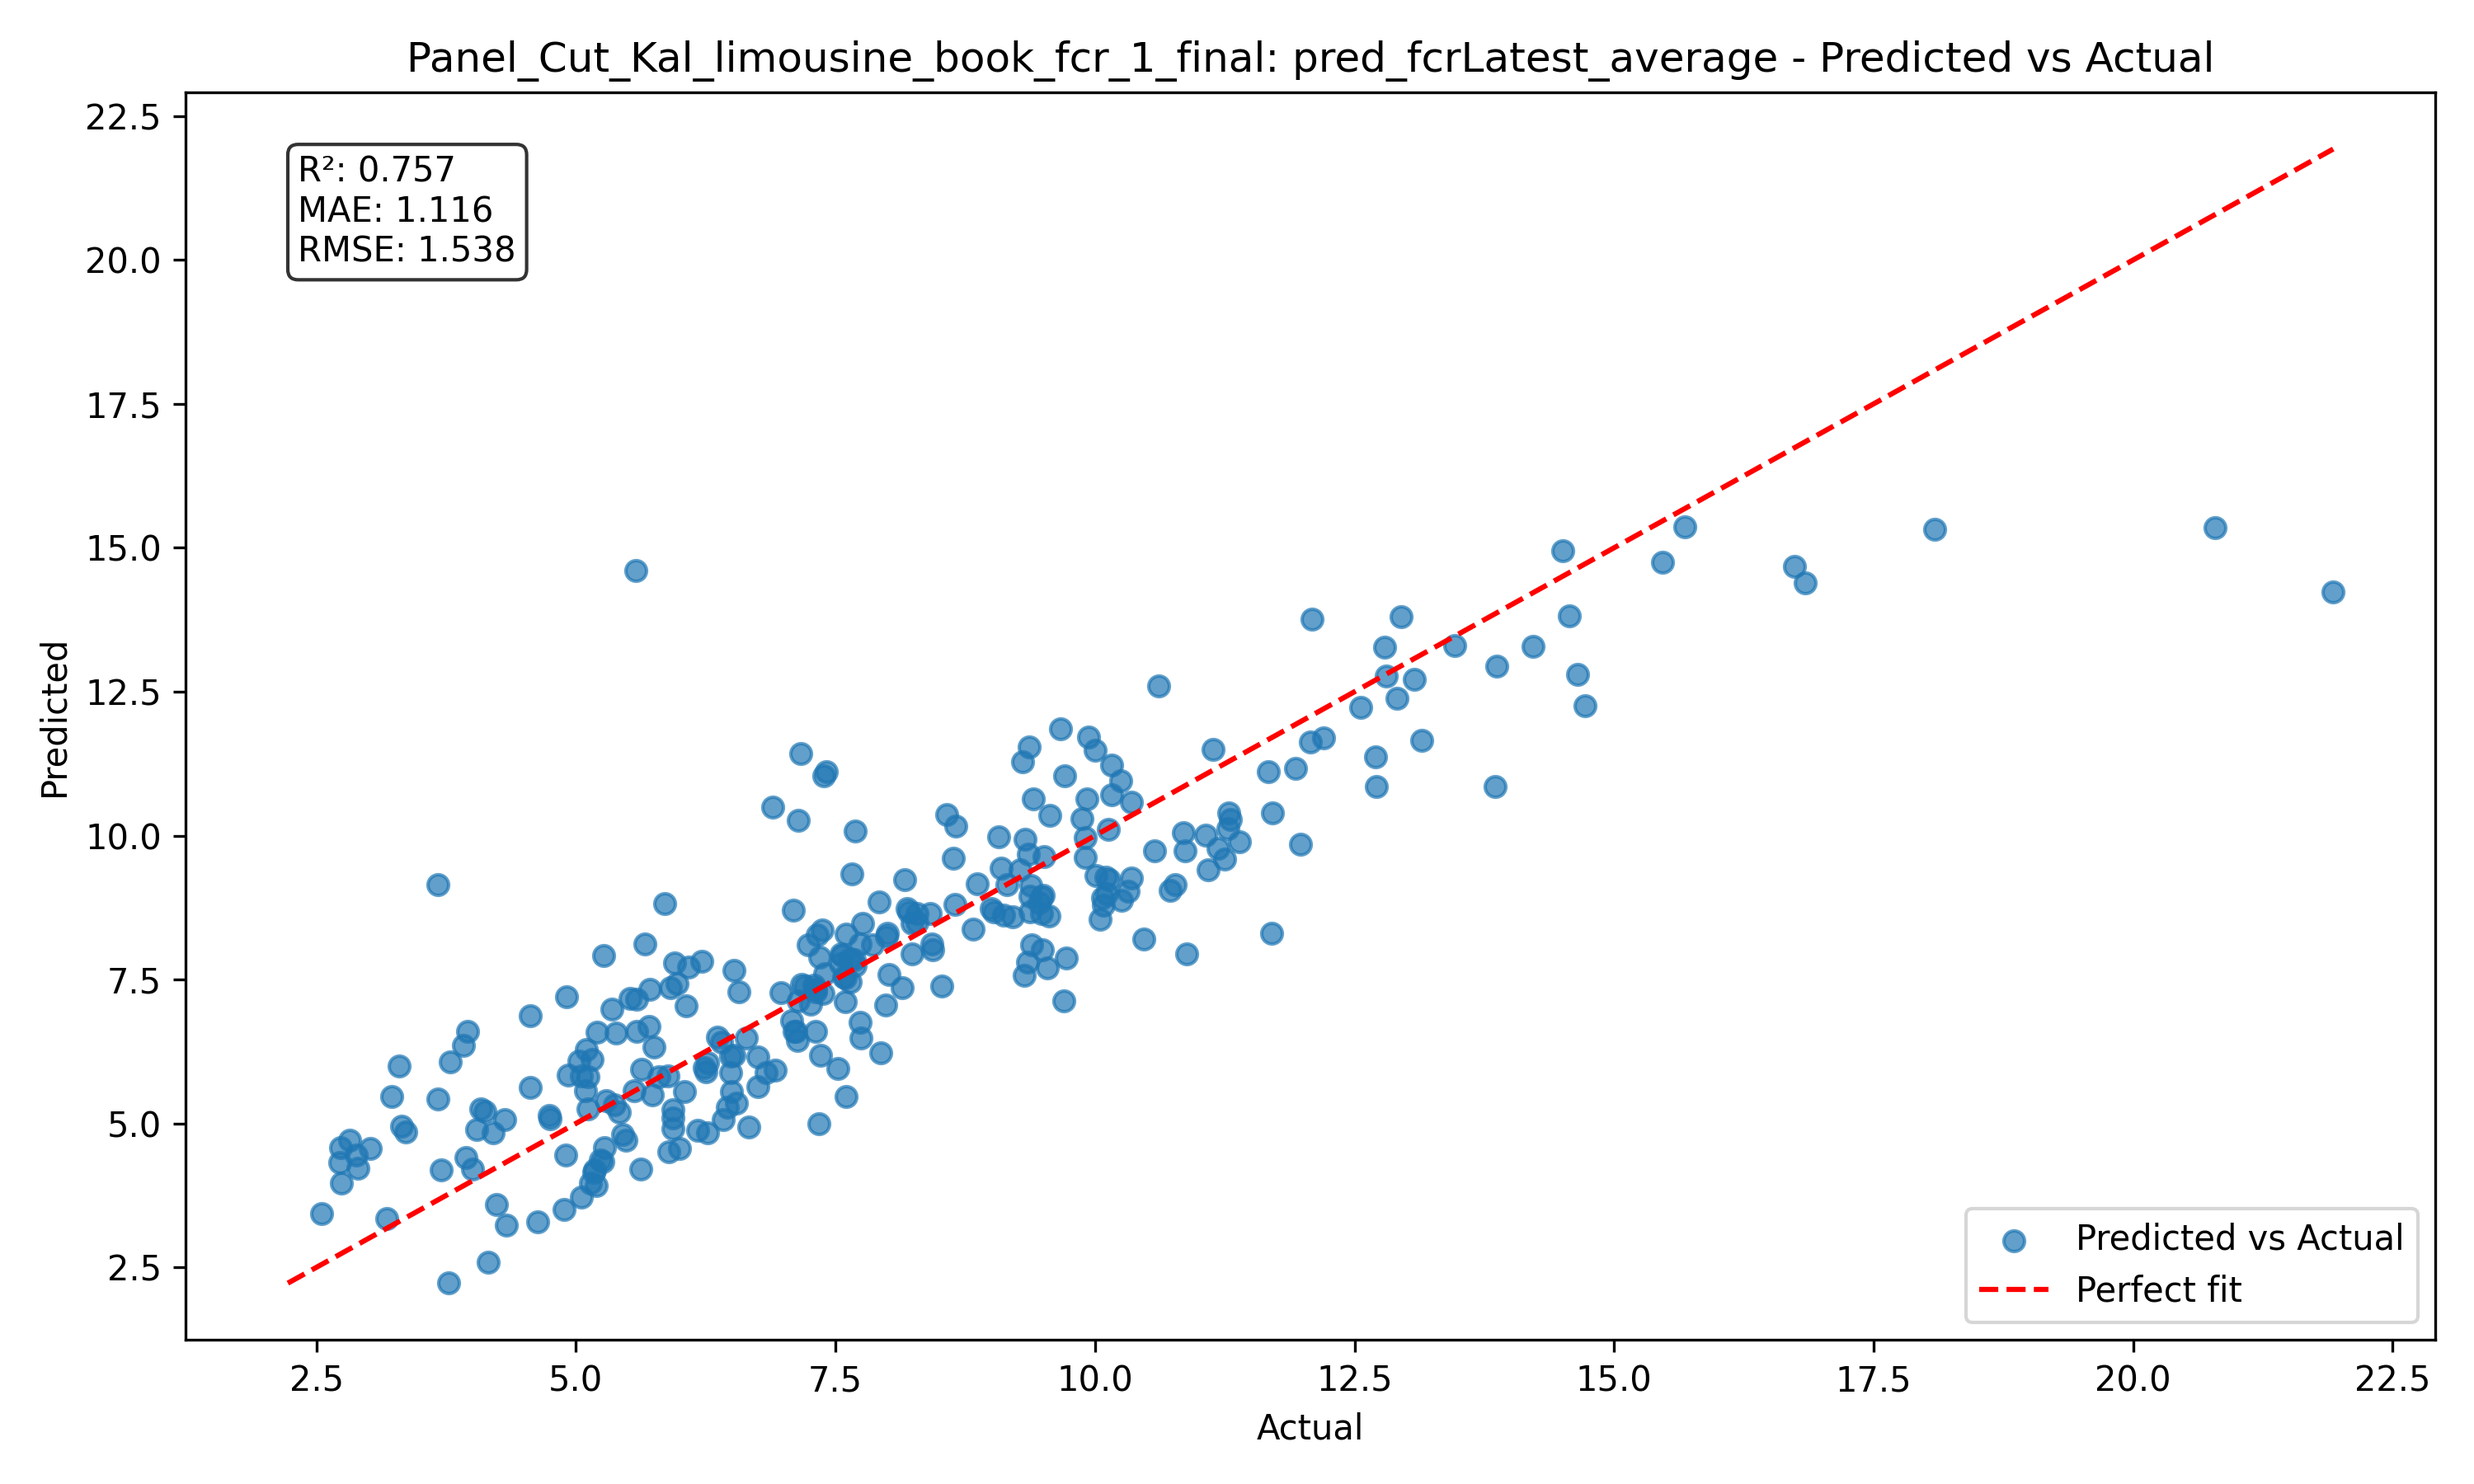
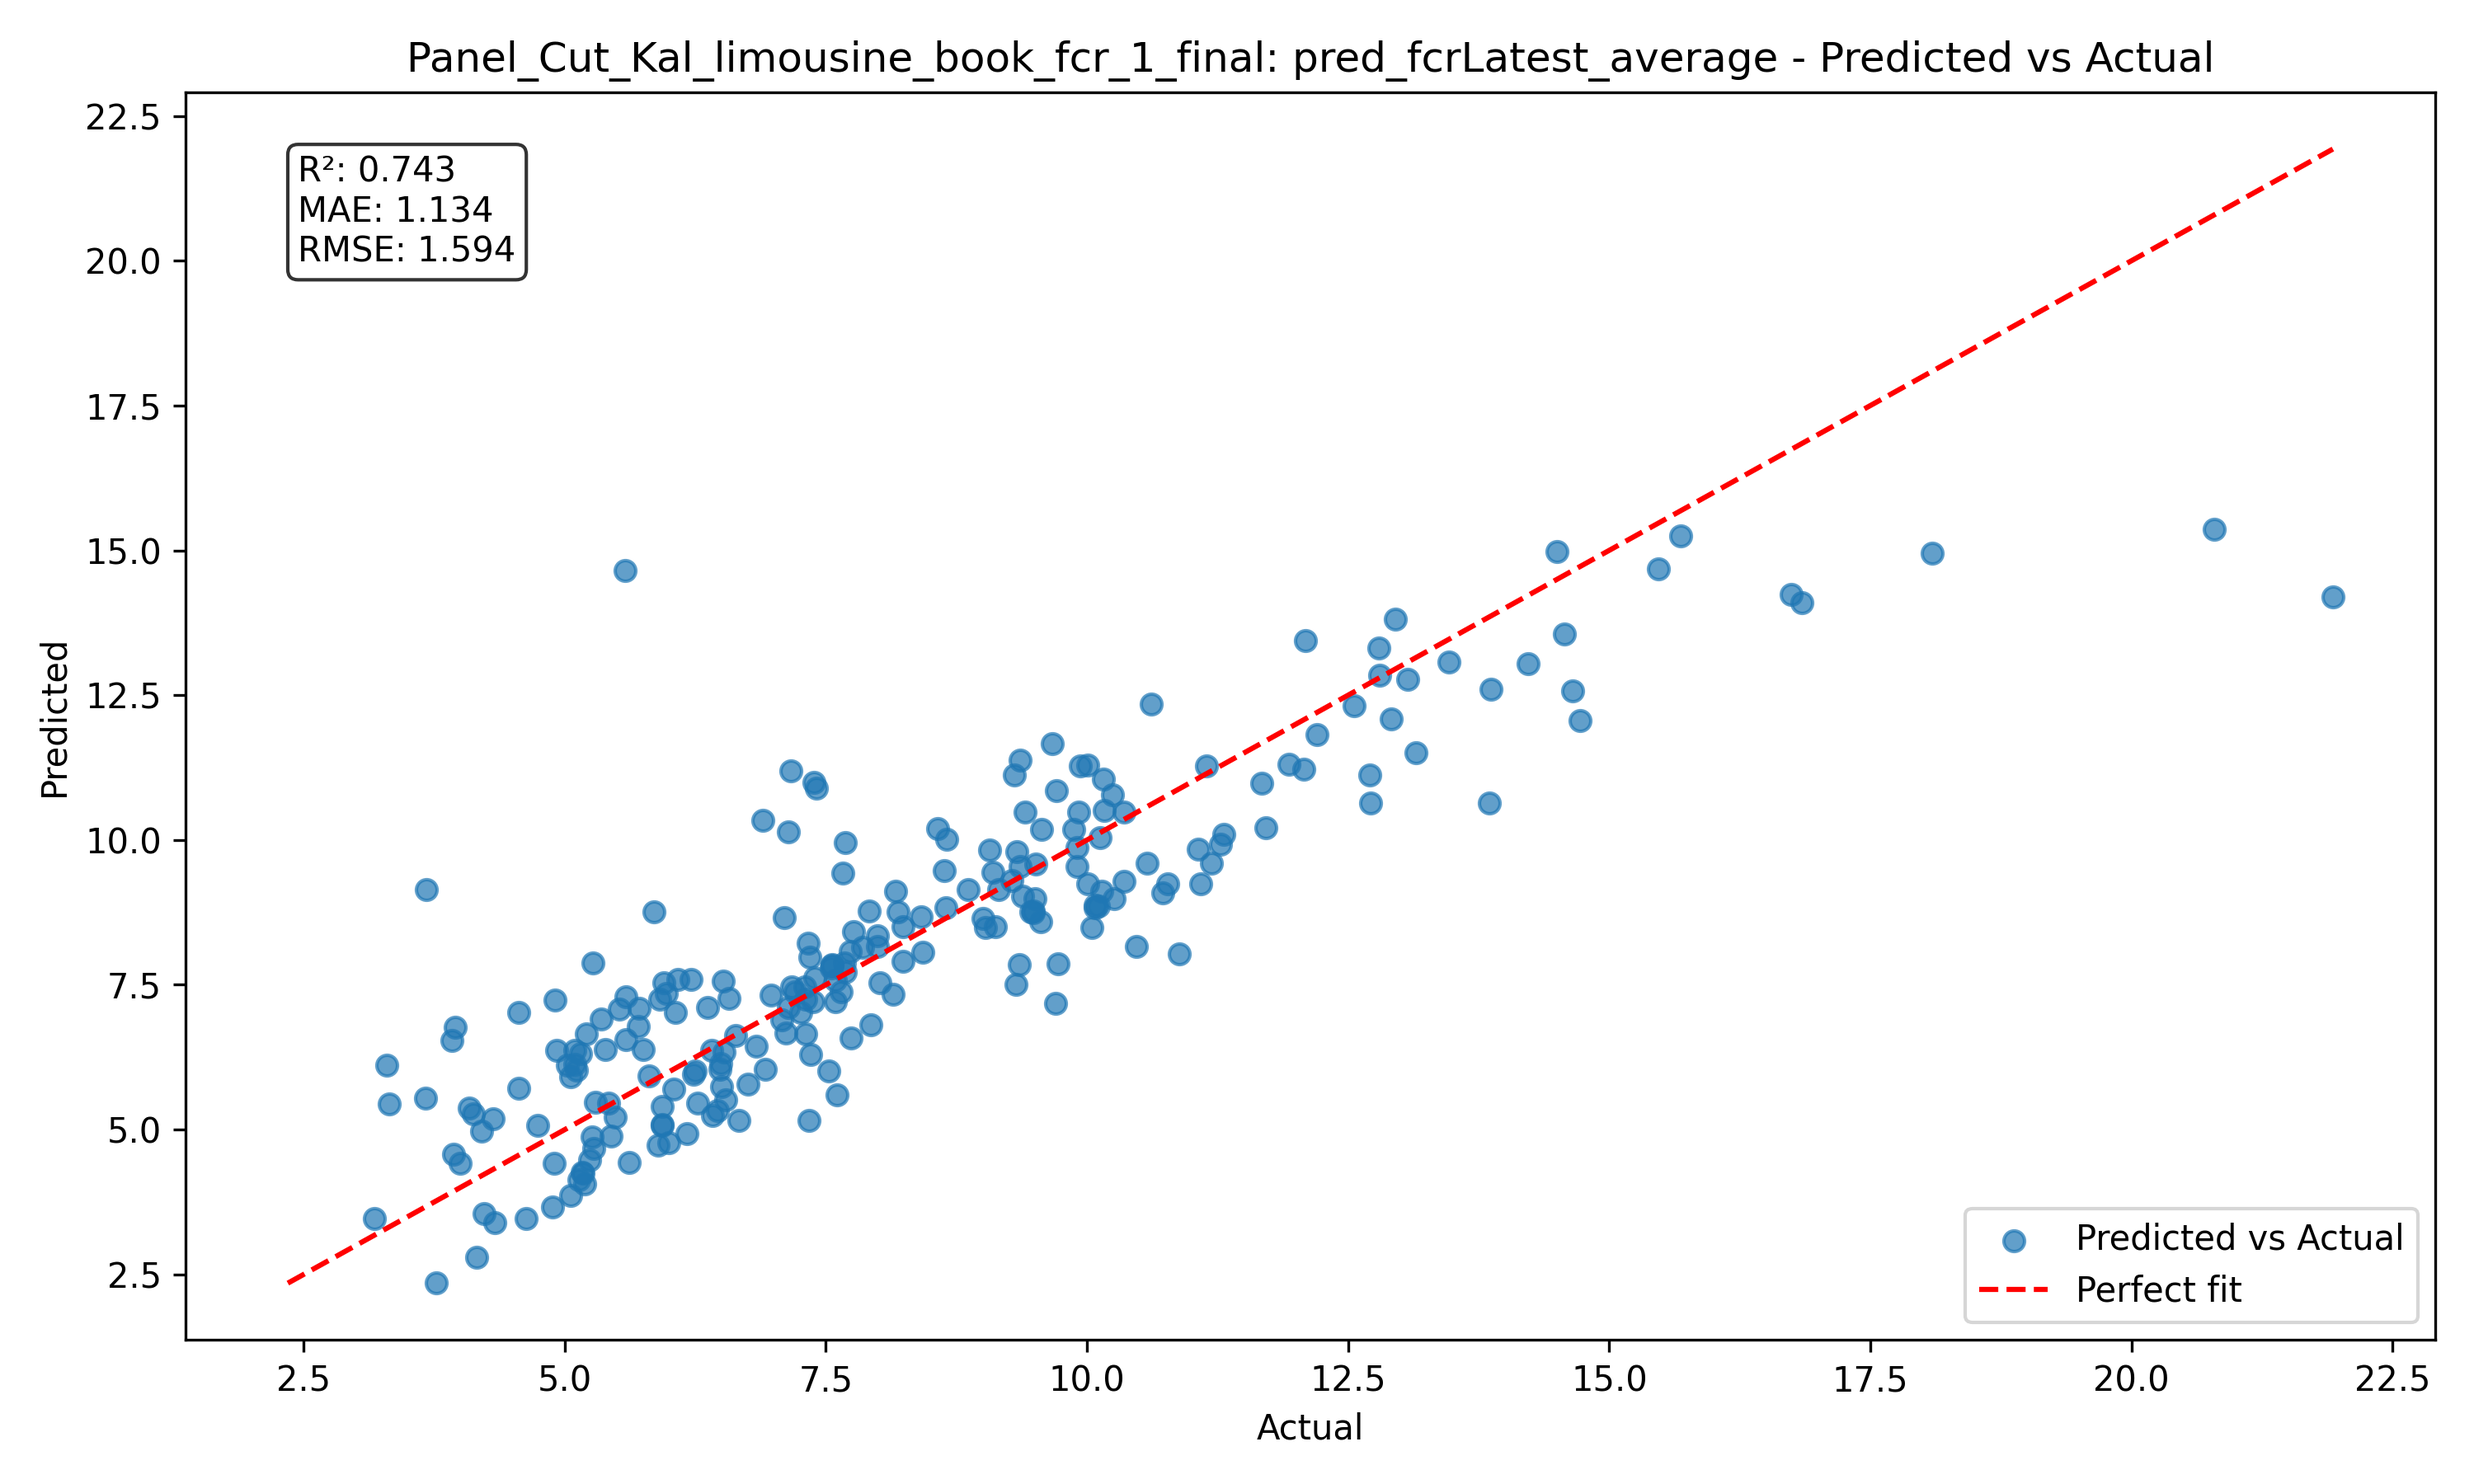
added naive adg

diff --git a/models/models.py b/models/models.py
@@ -1,5 +1,10 @@
 models = {
-    'limousine_book_adg_1_final':
+     'limousine_book_adg_1_naive':
+        {
+            'pass':False,
+            'depended_attr': 'pred_adgLatest_average', 
+            'indpended_attr':   [ 'weight', 'total_dmi', 'total_dmi_log', 'FeedRatio', 'day_diff']
+        },   'limousine_book_adg_1_final':
         {
             'pass':False,
             'depended_attr': 'pred_adgLatest_average', 
@@ -7,13 +12,13 @@ models = {
         },
     'limousine_book_fcr_1_final':
         {
-            'pass':False,
+            'pass':True,
             'depended_attr': 'pred_fcrLatest_average', 
             'indpended_attr':   [ 'hasBEF', 'mw_ratio', 'tdn_silage_ddmi', 'tdn_rumput_ddmi', 'tdn_slobber_ddmi', 'day_diff_2' ]
         },
     'limousine_book_wg_1_final':
         {
-            'pass':False,
+            'pass':True,
             'depended_attr': 'pred_weight_gain', 
             'indpended_attr':   [ 'hasBEF_dmi', 'mw_ratio_dmi', 'tdn_silage', 'tdn_rumput', 'tdn_slobber', 'day_diff_2_dmi']
         },

diff --git a/data_processor/FeedProcessor.py b/data_processor/FeedProcessor.py
@@ -356,6 +356,11 @@ class FeedProcessor:
             'tdn_slobber_ddmi': self.tdn_slobber/self.dm_total,
             'total_tdn_2_ddmi': (self.total_tdn**2)/self.dm_total,
             'total_dmi': self.dm_total,
+            'total_dmi_dt': self.dm_total/self.day_diff,
+            'total_dmi_dw': self.dm_total/self.avg_weight,
+            'total_dmi_log': np.log(self.dm_total),
+            'total_dmi_log_dt': np.log(self.dm_total/self.day_diff),
+            'total_dmi_log_dw': np.log(self.dm_total/self.avg_weight),
 
             # Log features
             'silage_dm_log': self.silage_dm_log,

diff --git a/model_cli.py b/model_cli.py
@@ -262,6 +262,8 @@ Examples:
     # Iterate through each model configuration
     for model_name, model_config in model_configs.items():
 
+        ori_model_name = model_name
+
         if args.kalman == True:
             model_name = 'Kal_' + model_name 
 
@@ -292,7 +294,7 @@ Examples:
             print(f"{'='*80}\n")
             
             # Filter by breed if needed
-            df_filtered, breed_prefix = filter_breed(df, model_name)
+            df_filtered, breed_prefix = filter_breed(df, ori_model_name)
            
             breed_prefix = ''
 
